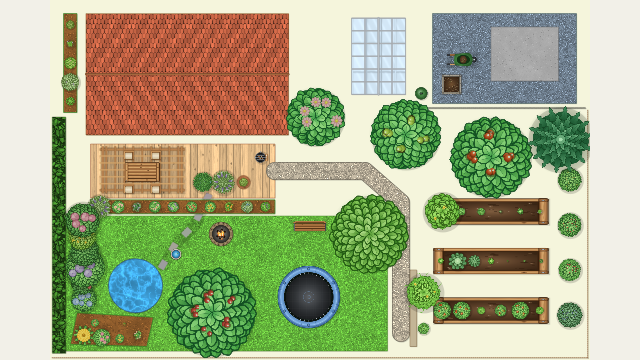
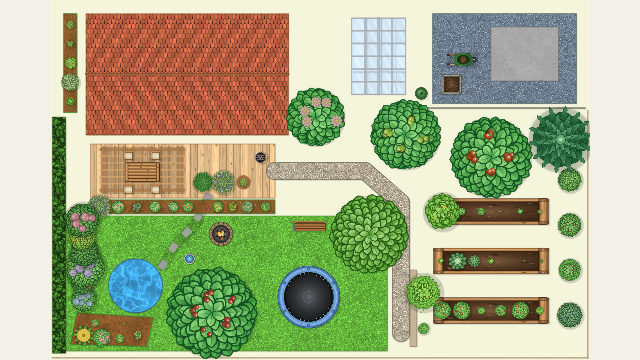
fix(#795): nothing stands in the family garden's stepping-stone walk; its cherry is a tree of several years
Review round 1, two P2 findings on the example data. Through the generator
only; --check passes; the three thumbnails are rewritten; de/ and es/ follow.

- Widened to 50 cm (#795), the stepping stones ran over the bird bath (48 %),
  a chrysanthemum (43 %) and a geranium (8 %). The bird bath stands at
  (620, 450); in the perennial border the geranium is at x 612, the
  chrysanthemum at x 746 and the lily at x 811 (it makes room). The path's
  points and the bench fixture are untouched: the generator moves the four
  items (FAMILY_MOVED_CM) and the drift test lists the four centres. The walk
  still crosses the border bed, the ground it is laid through.
- The cherry tree, planted on 1 March 2026, gave 6.5 kg in June 2026. It is
  planted on 5 November 2022 as a 1.5 m nursery tree; on the reference date
  its crown is 373 cm as before and it is 640 cm tall (was 511 cm).
- Every harvest entry of the four examples was checked against its plant's
  age; a test holds the rule (a tree bears three years after planting, a
  shrub one; at most 7 kg per year since planting). No other entry changed.
- Spacing warnings of the plan: 22 before, the same 22 after.

diff --git a/tests/unit/test_example_content.py b/tests/unit/test_example_content.py
@@ -118,21 +118,121 @@ def test_site_tutorial_and_reciprocal_bed_links_are_real_saved_content(slug):
         assert "Fictional" in history["records"][0]["notes"]
 
 
+#: Where the showcase stands apart from the bench plan, besides its path widths: what
+#: stood in the 50 cm stepping-stone walk was moved out of it (the bench plan's walk is a
+#: 6 cm line and its numbers are pinned, so the fixture keeps its layout). By the plant's
+#: common name or the object's name: the centre in the bench plan, and in the showcase.
+MOVED = {
+    "Bird bath": ((560.0, 470.0), (620.0, 450.0)),
+    "Geranium": ((630.0, 681.0), (612.0, 681.0)),
+    "Chrysanthemum": ((712.0, 681.0), (746.0, 681.0)),
+    "Lily": ((794.0, 681.0), (811.0, 681.0)),      # makes room for the chrysanthemum
+}
+
+
+def label(obj):
+    return obj.get("name") or obj.get("metadata", {}).get("plant_species", {}).get("common_name", "")
+
+
 def test_the_showcase_is_the_bench_plan_and_cannot_drift_from_it():
-    """Exactly the plan of every Beauty Board: same items and ids (a plant's shape is seeded
-    by its id), same geometry, same plants. Regenerating the fixture without the example,
-    or the other way round, fails here."""
+    """The plan of every Beauty Board: same items and ids (a plant's shape is seeded by its
+    id), same plants, and the same geometry but for the four centres listed in ``MOVED``.
+    Regenerating the fixture without the example, or the other way round, fails here."""
     plan, bench = load(SHOWCASE), json.loads(BENCH.read_text(encoding="utf-8"))
     assert plan["canvas"] == bench["canvas"]
     assert plan["version"] == bench["version"]
     assert len(plan["objects"]) == len(bench["objects"])
     fields = ("item_id", "type", "object_type", "x", "y", "center_x", "center_y", "radius", "width",
               "height", "rotation", "points", "parent_bed_id", "child_item_ids", "name")
+    moved = set()
     for shipped, fixture in zip(plan["objects"], bench["objects"], strict=True):
-        assert {k: shipped.get(k) for k in fields} == {k: fixture.get(k) for k in fields}
+        expected = {k: fixture.get(k) for k in fields}
+        if label(fixture) in MOVED and fixture["type"] == "circle":
+            before, after = MOVED[label(fixture)]
+            assert (fixture["center_x"], fixture["center_y"]) == before, label(fixture)
+            expected |= {"center_x": after[0], "center_y": after[1]}
+            moved.add(label(fixture))
+        assert {k: shipped.get(k) for k in fields} == expected, label(fixture)
         assert shipped.get("metadata", {}).get("plant_species") == fixture.get("metadata", {}).get("plant_species")
+    assert moved == set(MOVED), "each name stands for exactly one object"
     for key in ("latitude", "longitude", "frost_dates"):
         assert plan["location"][key] == bench["location"][key]
+
+
+def _distance_to_polyline(point, line):
+    """The distance from ``point`` to the nearest point of the polyline ``line``."""
+    best = math.inf
+    for (ax, ay), (bx, by) in zip(line, line[1:], strict=False):
+        dx, dy = bx - ax, by - ay
+        along = ((point[0] - ax) * dx + (point[1] - ay) * dy) / (dx * dx + dy * dy)
+        along = min(1.0, max(0.0, along))
+        best = min(best, math.hypot(point[0] - ax - along * dx, point[1] - ay - along * dy))
+    return best
+
+
+def _outline(obj):
+    """An object's outline as points (a rectangle's corners, a polygon's or line's points)."""
+    if obj["type"] == "rectangle":
+        assert not obj.get("rotation") and not obj.get("rotation_angle"), obj.get("name")
+        x, y, w, h = obj["x"], obj["y"], obj["width"], obj["height"]
+        return [(x, y), (x + w, y), (x + w, y + h), (x, y + h), (x, y)]
+    points = [(p["x"], p["y"]) for p in obj["points"]]
+    return points + points[:1] if obj["type"] == "polygon" else points
+
+
+def _segments_cross(a, b, c, d):
+    def side(p, q, r):
+        return (q[0] - p[0]) * (r[1] - p[1]) - (q[1] - p[1]) * (r[0] - p[0])
+    return side(a, b, c) * side(a, b, d) < 0 and side(c, d, a) * side(c, d, b) < 0
+
+
+def _gap_to_walk(obj, walk, half_width):
+    """How far ``obj`` stays clear of the walk's edge (negative: it stands in it)."""
+    if obj["type"] == "circle":
+        return _distance_to_polyline((obj["center_x"], obj["center_y"]), walk) - half_width - obj["radius"]
+    outline = _outline(obj)
+    own_half = obj.get("stroke_width", 0.0) / 2 if obj["type"] == "polyline" else 0.0
+    for a, b in zip(outline, outline[1:], strict=False):
+        for c, d in zip(walk, walk[1:], strict=False):
+            if _segments_cross(a, b, c, d):
+                return -half_width
+    nearest = min([_distance_to_polyline(p, walk) for p in outline]
+                  + [_distance_to_polyline(p, outline) for p in walk])
+    return nearest - half_width - own_half
+
+
+@pytest.mark.parametrize("language", ("", "de", "es"))
+def test_nothing_stands_in_the_showcases_stepping_stone_walk(language):
+    """The stones are a 50 cm walk from the terrace to the pond. A bird bath stood on it,
+    and a chrysanthemum and a geranium grew into it (review of #795). Only the ground it
+    is laid on or through may lie under it: the lawn, the terrace, the perennial border."""
+    plan, english = load(SHOWCASE, language), load(SHOWCASE)
+    names = {o["item_id"]: label(o) for o in english["objects"]}
+    stones = next(o for o in plan["objects"] if names[o["item_id"]] == "Stepping stones")
+    walk = [(p["x"], p["y"]) for p in stones["points"]]
+    assert walk == [(700.0, 720.0), (640.0, 600.0), (560.0, 520.0), (500.0, 420.0)], (
+        "the path's points are not moved: other test data is pinned to them")
+    half_width = stones["stroke_width"] / 2
+    ground = {"Lawn", "Terrace", "Perennial border"}
+    in_the_walk, nearest = [], {}
+    for obj in plan["objects"]:
+        name = names[obj["item_id"]]
+        if obj is stones or name in ground:
+            continue
+        gap = _gap_to_walk(obj, walk, half_width)
+        if gap < 5.0:
+            in_the_walk.append((name, round(gap, 1)))
+        nearest[name] = min(gap, nearest.get(name, math.inf))
+    assert not in_the_walk, in_the_walk
+    # and the test sees the plan: what stands beside the walk is near it, the walk ends
+    # short of the pond's rim
+    assert 5 <= nearest["Geranium"] < 15 and 5 <= nearest["Chrysanthemum"] < 15
+    assert 20 <= nearest["Bird bath"] < 60 and 0 < nearest["Pond"] < 10
+    # the plants of the border keep their distance from each other as well
+    border = sorted(o["center_x"] for o in plan["objects"]
+                    if o.get("parent_bed_id") == next(
+                        i for i, n in names.items() if n == "Perennial border"))
+    assert len(border) == 10 and min(b - a for a, b in zip(border, border[1:], strict=False)) >= 60
 
 
 def test_the_showcase_is_a_real_saved_plan_with_its_links_and_place():
@@ -215,6 +315,8 @@ def test_the_showcases_trees_stand_before_a_time_lapse_starts_and_the_beds_come_
         planted = metadata["plant_instance"]["planting_date"]
         if years_to_maturity(metadata["plant_species"], plant.get("object_type", "")) >= 1.0:
             assert planted <= "2026-03-01", metadata["plant_species"].get("common_name")
+            # one date for all of them, but for the tree that has borne fruit
+            assert (planted == "2026-03-01") != (metadata["plant_species"]["common_name"] == "Cherry Tree")
             established += 1
         else:
             assert planted == "2026-04-15"
@@ -295,6 +397,68 @@ def test_the_harvest_history_is_fictional_and_fits_its_plants_and_the_reference_
                     assert record["quality"] != english["quality"]
     ids = [record["id"] for history in logs.values() for record in history["records"]]
     assert len(set(ids)) == len(ids)
+
+
+#: How long after planting a woody plant can have given a harvest, in years.
+BEARS_AFTER_YEARS = {"TREE": 3.0, "SHRUB": 1.0}
+
+
+@pytest.mark.parametrize("slug", EVERY)
+def test_a_harvest_fits_the_age_of_the_plant_that_gave_it(slug):
+    """A cherry tree planted on 1 March 2026 gave 6.5 kg in June 2026 (review of #795).
+    A tree bears years after it was planted, a shrub the year after, and the crop of a
+    young tree is small."""
+    from open_garden_planner.core.growth_model import years_to_maturity
+
+    plan = load(slug)
+    by_id = {o["item_id"]: o for o in plan["objects"]}
+    woody = 0
+    for target, history in plan["harvest_logs"].items():
+        plant = by_id[target]
+        kind = plant.get("object_type", "")
+        wait = BEARS_AFTER_YEARS.get(kind)
+        # a runner bean is drawn as a shrub by its height and ripens within its season
+        if wait is None or years_to_maturity(plant["metadata"]["plant_species"], kind) < 1.0:
+            continue
+        woody += 1
+        planted = date.fromisoformat(plant["metadata"]["plant_instance"]["planting_date"])
+        first = date.fromisoformat(min(record["date"] for record in history["records"]))
+        years = (first - planted).days / 365.25
+        assert years >= wait, (slug, history["species_name"], planted, first)
+        per_year = Counter()
+        for record in history["records"]:
+            assert record["unit"] == "kg", (slug, history["species_name"])
+            per_year[record["date"][:4]] += record["quantity"]
+        # at most 7 kg a year of age since planting: 6.5 kg from a tree in its fourth
+        # summer, 60 kg from one in its eleventh
+        for year, kilograms in per_year.items():
+            age = (date(int(year), 12, 31) - planted).days / 365.25
+            assert kilograms <= 7.0 * age, (slug, history["species_name"], year, kilograms, age)
+    assert woody == {"family-garden": 1, "food-forest": 3}.get(slug, 0)
+
+
+def test_the_showcases_cherry_is_a_tree_of_several_years_with_the_crown_it_had():
+    """Planted in autumn 2022 as a nursery tree. Its crown on the reference date is the one
+    the plan was drawn with (the bench plan's cherry, grown from 1 March to 21 June)."""
+    from open_garden_planner.core.growth_model import grown_height_cm, grown_spread_cm
+
+    def cherry(plan):
+        return next(o for o in plan["objects"] if label(o) == "Cherry Tree")
+
+    shipped, bench = cherry(load(SHOWCASE)), cherry(json.loads(BENCH.read_text(encoding="utf-8")))
+    instance = shipped["metadata"]["plant_instance"]
+    assert instance == {"planting_date": "2022-11-05", "current_spread_cm": 130.0,
+                        "current_height_cm": 150.0}
+    assert shipped["radius"] == bench["radius"] == 180.0, "the drawn footprint is the bench plan's"
+    day, species = date(2026, 6, 21), shipped["metadata"]["plant_species"]
+    as_drawn = dict(bench["metadata"], plant_instance=dict(
+        bench["metadata"]["plant_instance"], planting_date="2026-03-01"))
+    was = grown_spread_cm(species, as_drawn, day, "TREE")
+    now = grown_spread_cm(species, shipped["metadata"], day, "TREE")
+    assert was == pytest.approx(373.5, abs=0.1) and now == pytest.approx(was, abs=1.0)
+    # the tree is taller than the spring-planted one was: 6.4 m against 5.1 m
+    assert grown_height_cm(species, shipped["metadata"], day, "TREE") == pytest.approx(639.7, abs=0.5)
+    assert grown_height_cm(species, as_drawn, day, "TREE") == pytest.approx(511.3, abs=0.5)
 
 
 def _luminance(argb):

diff --git a/scripts/generate_examples.py b/scripts/generate_examples.py
@@ -476,20 +476,57 @@ def _establish(item):
 FAMILY_PATH_WIDTH_CM = {"Gravel path": 80.0, "Stepping stones": 50.0}
 
 
+#: What stood in the 50 cm stepping-stone walk, and where it stands in the showcase: the
+#: object's name or the plant's common name, and its centre. In the bench plan the walk is
+#: a 6 cm line, so a bird bath 26 cm from it and two perennials beside it were clear; as a
+#: walk it ran over them (review of #795). The path's own points stay: test data is pinned
+#: to them, and so does the bench fixture's layout. The lily moves so that the
+#: chrysanthemum, now east of the walk, keeps its distance from it.
+FAMILY_MOVED_CM = {
+    "Bird bath": (620.0, 450.0),         # was (560, 470): east of the walk, by the pond's end
+    "Geranium": (612.0, 681.0),          # was x 630: the border's last plant west of the walk
+    "Chrysanthemum": (746.0, 681.0),     # was x 712: the first plant east of it
+    "Lily": (811.0, 681.0),              # was x 794
+}
+
+#: The cherry bears fruit in June (its fictional harvest below), so it is no tree of this
+#: spring: planted in autumn 2022 as a nursery tree of this size (the growth model's low
+#: end is the size AT planting). On the reference date its crown is the 3.7 m the plan was
+#: drawn with; it is 6.4 m tall, where the spring-planted tree stood at 5.1 m.
+FAMILY_CHERRY = {"planting_date": "2022-11-05", "current_spread_cm": 130.0,
+                 "current_height_cm": 150.0}
+
+
+def _name_of(item):
+    """An object's name, or a plant's common name (the bench builder names no plant)."""
+    species = (getattr(item, "metadata", None) or {}).get("plant_species") or {}
+    return getattr(item, "name", "") or species.get("common_name", "")
+
+
 def family_garden():
     """The bench plan as an example: ``make_bench_plans.build_small``, one builder for both."""
     from make_bench_plans import BERLIN, build_small
 
     builder = build_small()
-    widened = set()
+    widened, moved, cherries = set(), set(), 0
     for item in builder.scene.items():
         _establish(item)
+        name = _name_of(item)
         if getattr(item, "object_type", None) is ObjectType.PATH and item.name in FAMILY_PATH_WIDTH_CM:
             pen = item.pen()
             pen.setWidthF(FAMILY_PATH_WIDTH_CM[item.name])
             adopt_pen(item, pen)
             widened.add(item.name)
+        if name in FAMILY_MOVED_CM and isinstance(item, CircleItem):
+            assert name not in moved, name          # each name stands for one object
+            centre = item.mapToParent(item.rect().center())
+            item.moveBy(FAMILY_MOVED_CM[name][0] - centre.x(), FAMILY_MOVED_CM[name][1] - centre.y())
+            moved.add(name)
+        if name == "Cherry Tree":
+            item.metadata["plant_instance"] = dict(FAMILY_CHERRY)
+            cherries += 1
     assert widened == set(FAMILY_PATH_WIDTH_CM), widened
+    assert moved == set(FAMILY_MOVED_CM) and cherries == 1, (moved, cherries)
     manager = ProjectManager()
     manager.set_location(dict(BERLIN) | {"timezone": "Europe/Berlin"})
     # What a Berlin garden planted on 15 April (its trees stood before) has given by 21 June.

diff --git a/src/open_garden_planner/resources/examples/PROVENANCE.md b/src/open_garden_planner/resources/examples/PROVENANCE.md
@@ -12,7 +12,7 @@ models, textures, satellite images or reads from the owner's custom plant librar
 | `raised-bed.ogp` | 4 × 2 m raised bed: **16 lettuces, 60 carrots, 88 radishes** (164 crops), plus a ten-plant flower/herb border, gravel access, bench, compost and west-side tool shed. A 2027 succession and fictional soil test belong to the main bed. |
 | `food-forest.ogp` | 200 m²: **2 fruit trees, 3 currants, 24 strawberries, 12 chives, 10 borage, 60 carrots and 3 supported runner beans** (114 plants). Continuous mulched beds and 80/90 cm harvest paths replace isolated plants in lawn. |
 | `balcony.ogp` | 5 × 3 m: **4 basil, 6 parsley, 4 thyme** in three separate troughs, two chairs and a table, a parasol, a north house wall and metal railings on the west/south/east sides. The basil trough has a fictional soil test. |
-| `family-garden.ogp` | 24 × 16 m showcase of the 3D view, not a teaching plan: **61 plants** among a house with its ridge, greenhouse, shed, terrace with pergola, lawn with pond and trampoline, three raised beds, trees, hedge, wall and fences. It is the plan of every Beauty Board (`tests/fixtures/plans/bench_small.ogp`, added 3 November 2026, #390), built by the same `scripts/make_bench_plans.py` and with the same item ids, so its procedural plants have the same shapes; a test pins that the two do not drift. Its two polyline paths are as wide as a path one walks on (gravel path 80 cm, stepping stones 50 cm, #795); the fixture keeps the 8 and 6 cm its pinned numbers were measured with. What takes a year or more to mature is planted on 1 March instead of the fixture's 15 April, so that a time-lapse from March shows it leafing out. It has no soil test and no tutorial annotation. |
+| `family-garden.ogp` | 24 × 16 m showcase of the 3D view, not a teaching plan: **61 plants** among a house with its ridge, greenhouse, shed, terrace with pergola, lawn with pond and trampoline, three raised beds, trees, hedge, wall and fences. It is the plan of every Beauty Board (`tests/fixtures/plans/bench_small.ogp`, added 3 November 2026, #390), built by the same `scripts/make_bench_plans.py` and with the same item ids, so its procedural plants have the same shapes; a test pins that the two do not drift. Its two polyline paths are as wide as a path one walks on (gravel path 80 cm, stepping stones 50 cm, #795); the fixture keeps the 8 and 6 cm its pinned numbers were measured with. With the walk 50 cm wide, what stood in it was moved out of it: the bird bath to (620, 450) and, in the perennial border, the geranium, the chrysanthemum and the lily to x 612, 746 and 811; the path's points and every other object stand where the fixture has them. What takes a year or more to mature is planted on 1 March instead of the fixture's 15 April, so that a time-lapse from March shows it leafing out. The cherry tree alone is older: planted on 5 November 2022 as a 1.5 m nursery tree, because it has a harvest in June 2026; on the reference date its crown is the 3.7 m the plan was drawn with. It has no soil test and no tutorial annotation. |
 
 The root `.ogp` files are canonical English. `de/` and `es/` hold localized
 variants with identical stable IDs, coordinates, botanical dimensions, species keys,
@@ -68,6 +68,10 @@ entry; not a real harvest record.", translated in `de/` and `es/`).
 The records of a species sit on one plant of it (the one nearest the plan's
 south-west corner), as a harvest logged from that plant's context menu would. No date
 is earlier than that plant's planting date or later than the plan's reference date.
+A tree's first record is at least three years after its planting date and a shrub's
+at least one, and a year's total stays within 7 kg per year since planting (the
+content tests hold both): the family garden's cherry gave 6.5 kg in its fourth
+summer, the food forest's apple 60 kg in its eleventh.
 The raised bed stays fully planted on 21 September: what was taken there are outer
 leaves and thinnings. Units are the dialog's own (`kg`, `g`, `pcs`, `bunch`). No
 journal note is linked, and an example writes nothing into the seed inventory, which

diff --git a/docs/09-architecture-decisions/README.md b/docs/09-architecture-decisions/README.md
@@ -9792,8 +9792,9 @@ The fourth example, `family-garden`, is not a teaching plan: it is the plan of e
 (`tests/fixtures/plans/bench_small.ogp`), shipped at the owner's request and the subject of the
 project's visual material. It is built by the same `make_bench_plans.build_small` and keeps the
 fixture's item ids, because a plant's procedural shape is seeded by its id; a test fails when the
-two drift. It keeps the fixture's layout and its 6 to 10 cm path widths (*the widths are
-superseded by the #795 addendum below*). One difference: what takes
+two drift. It keeps the fixture's layout and its 6 to 10 cm path widths (*the widths, the
+place of four objects and the cherry's age are superseded by the #795 addendum below*). One
+difference: what takes
 a year or more to mature is planted on 1 March, not on the fixture's 15 April, so a default
 time-lapse shows the birch leafing out instead of popping in (949 cm against the fixture's 929 cm
 on 21 June). It needs no
@@ -9872,6 +9873,23 @@ a seedling emoji; its paths are 6 and 8 cm hairlines. The teaching date lived in
    showcase's "Gravel path" is 80 cm and its "Stepping stones" 50 cm. Only the example changes:
    the bench fixture keeps its widths, and the test that holds the two together compares
    geometry, ids, names and species, not stroke widths.
+   **What stood in the widened walk moved out of it** *(review round 1; supersedes "keeps the
+   fixture's layout" for four objects)*. As a 50 cm walk the stepping stones ran over the bird
+   bath (48 % of it), a chrysanthemum (43 %) and a geranium (8 %). The bird bath stands at
+   (620, 450), east of the walk; in the perennial border the geranium is at x 612, the
+   chrysanthemum at x 746 and the lily at x 811 (it makes room for the chrysanthemum). The
+   path's points do not move, because test data is pinned to them, and the fixture is
+   untouched: the generator moves the four items (`FAMILY_MOVED_CM`), and the test that
+   holds example and fixture together lists the four centres. The walk still crosses the
+   perennial border bed, which is the ground it is laid through, like the lawn and the
+   terrace. The birch's crown reaches over the gravel path; its trunk is a metre from it.
+   **The cherry is a tree of several years** *(review round 1)*. It has 6.5 kg of harvest
+   in June 2026 and was planted on 1 March 2026 like every established plant. It is now
+   planted on 5 November 2022 as a nursery tree (1.5 m tall, 1.3 m crown: the growth model's
+   low end is the size at planting). On the reference date its crown is 373 cm as before
+   and it is 640 cm tall, where it was 511 cm. Every other harvest entry of the four examples
+   was checked against its plant's age (`test_a_harvest_fits_the_age_of_the_plant_that_gave_it`):
+   none needed a change.
 9. **A seasonal 2D look is not built.** Trees in full leaf on 21 December are a project of their
    own; a follow-up issue carries it.
 10. **Unevaluated sun rows fold in the panel.** With Hours of Sun off, every plant with a known

diff --git a/docs/08-crosscutting-concepts/README.md b/docs/08-crosscutting-concepts/README.md
@@ -8620,6 +8620,13 @@ Data rules the content tests hold (`tests/unit/test_example_content.py`):
 - A path is as wide as a path one walks on (40 cm or more). The showcase's two
   polyline paths are 80 and 50 cm; the bench fixture keeps the 8 and 6 cm its
   pinned numbers were measured with.
+- Nothing stands in the showcase's stepping-stone walk but the ground it is laid
+  on or through (lawn, terrace, the perennial border): every other object keeps
+  5 cm or more from its edge. Widening a path is a reason to look at what stands
+  beside it; the generator moves four items of the bench plan (`FAMILY_MOVED_CM`).
+- A harvest fits the age of its plant: a tree's first record is three years or
+  more after its planting date, a shrub's one year, and a year's total is at most
+  7 kg per year since planting.
 - A tutorial note has no halo, so its ink suits its ground: light and bold on a
   lawn, dark on the balcony's boards.
 - An item is turned with `geometry_apply.apply_rotation`, never a bare
